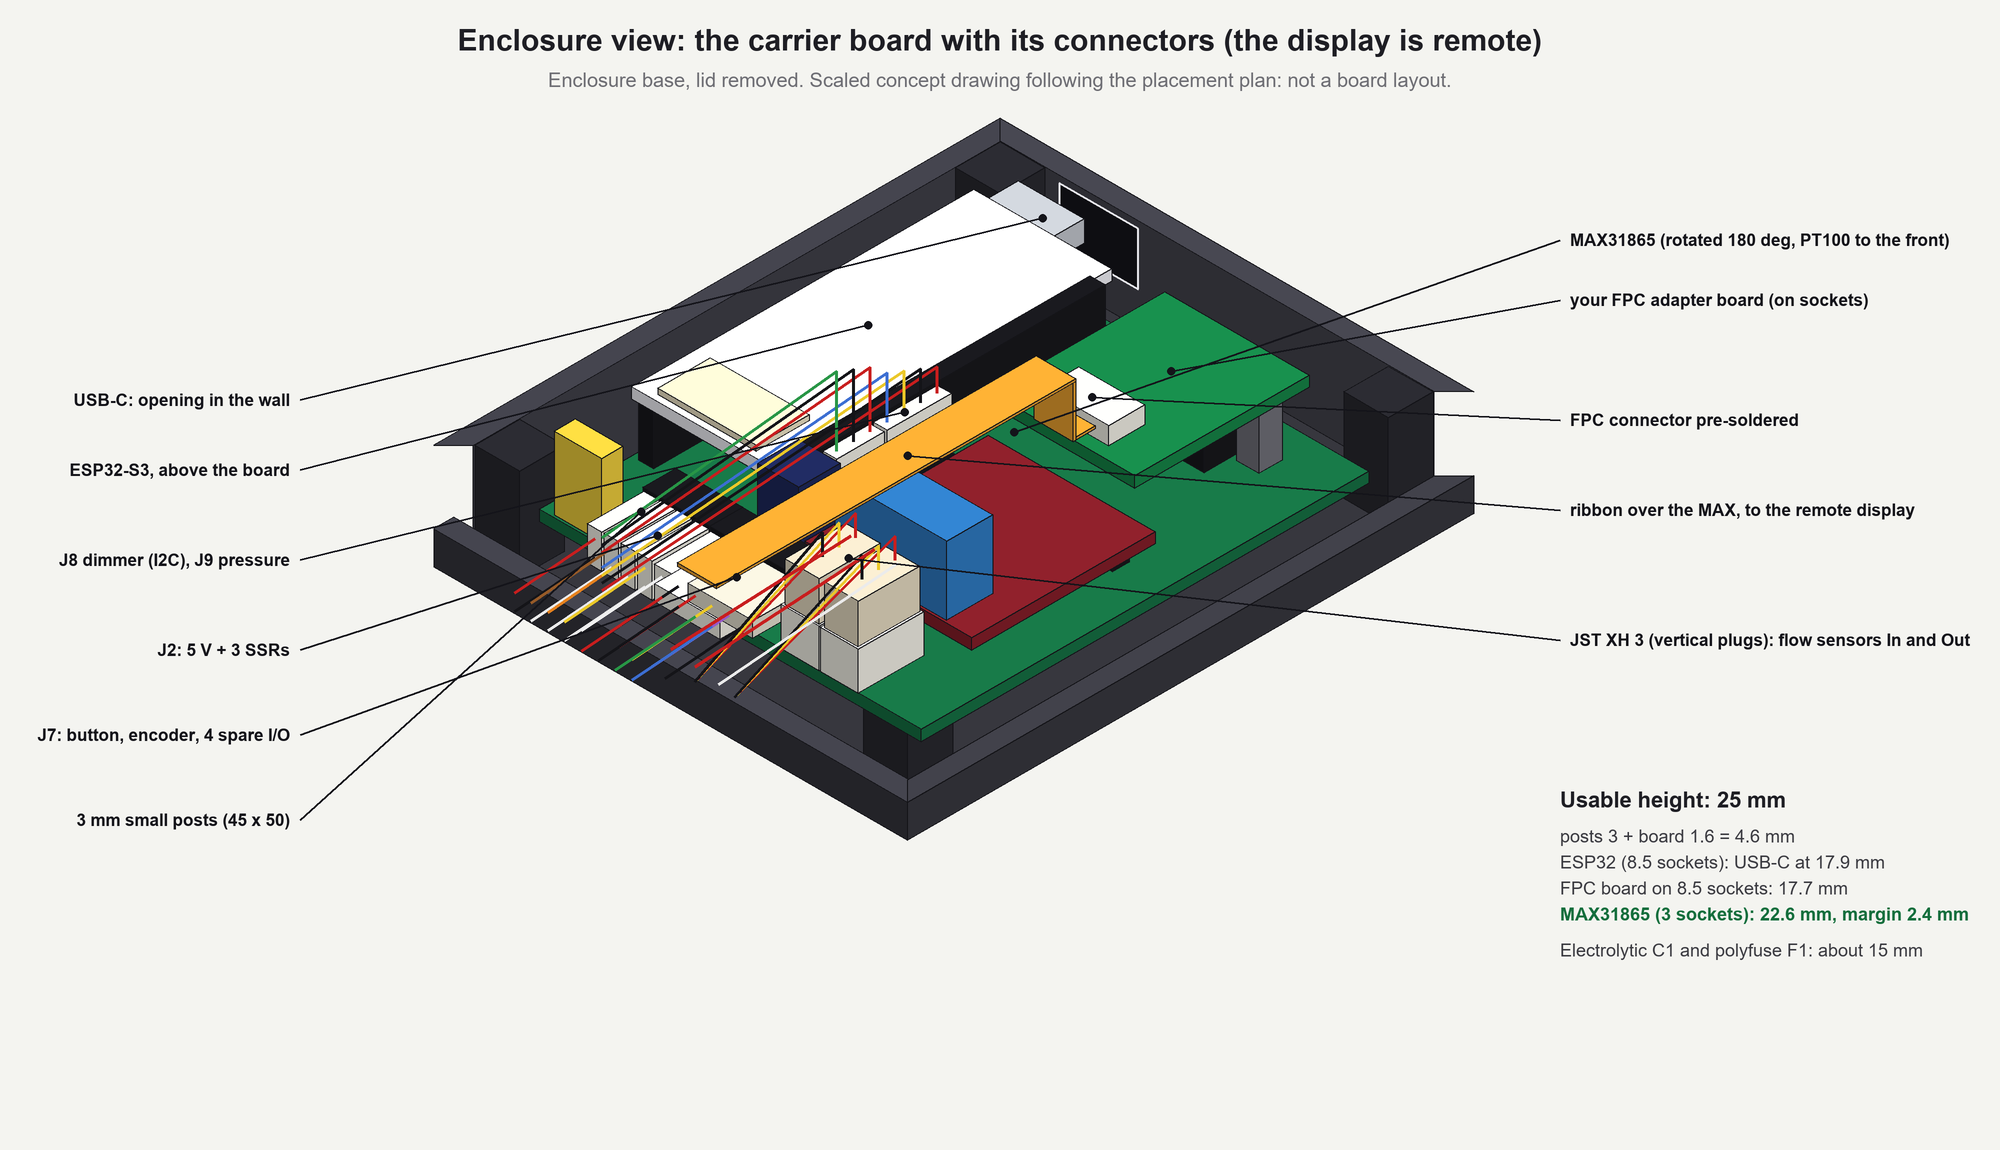
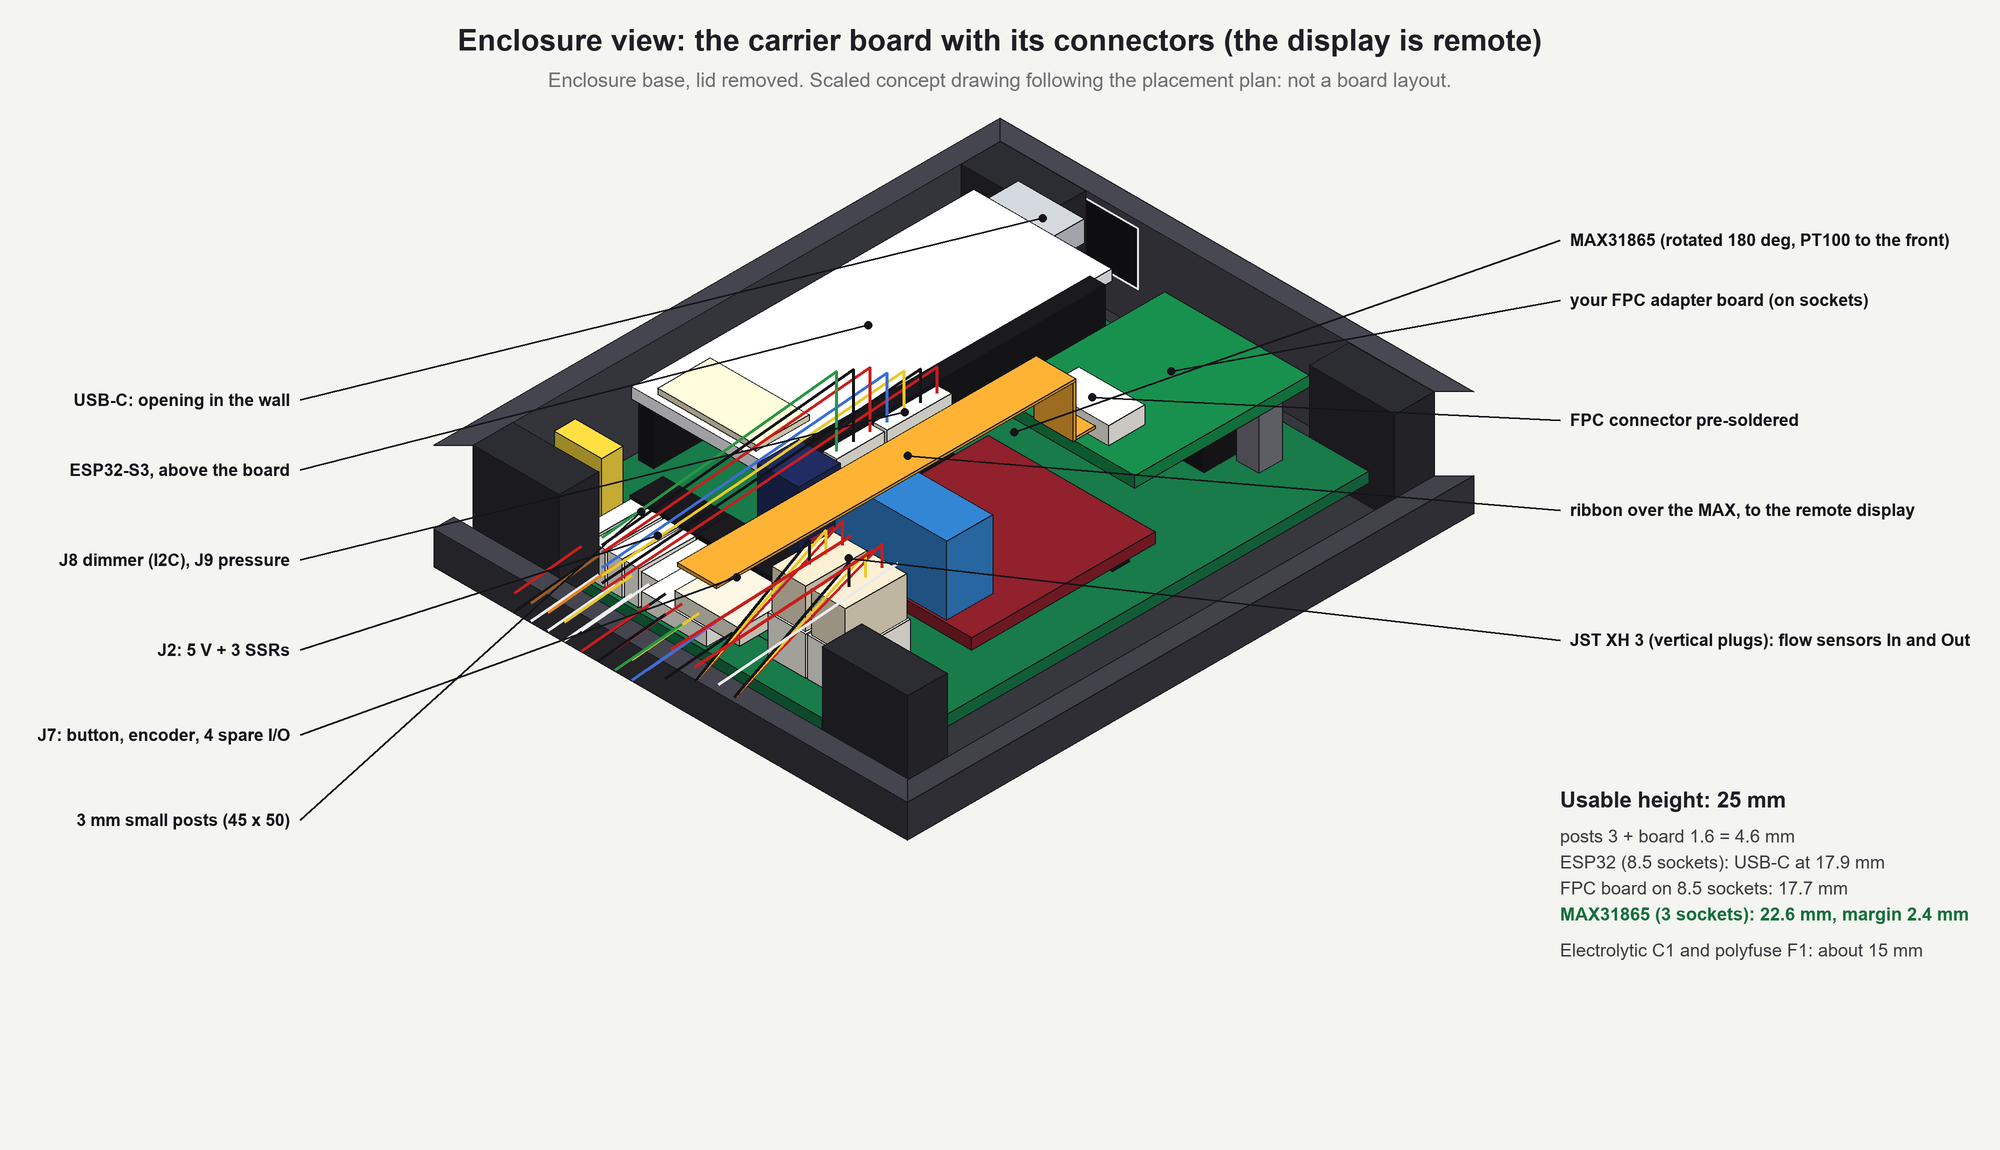
Big posts drawn as 13 x 6 corner blocks (plus-shaped usable area); PCB extended with a 40 x 6 tab on the cable side; connectors moved 2 mm forward

Changed region(s): [[0.248, 0.3957, 0.496, 0.6696], [0.651, 0.3652, 0.682, 0.3957], [0.527, 0.1522, 0.558, 0.1826]]

diff --git a/tools/carrier_plan.py b/tools/carrier_plan.py
@@ -42,28 +42,25 @@ rect(d, bx0, by0, bx1, by1, fill=(74, 74, 82, 255))
 # the opening for the USB-C cable in the back wall (y = top)
 rect(d, X(5.5), by0 - 3 * K, X(18.5), by0, fill=(20, 20, 24, 255), outline=(230, 230, 235, 255), width=2)
 text(d, X(12), by0 - 1.5 * K, "USB-C opening", 12, (230, 230, 235), True)
-# the four big posts (lid screws), diameter 8, at the corners of the interior
-for (cx, cy) in [(bx0 + 3.6 * K, by0 + 3.6 * K), (bx1 - 3.6 * K, by0 + 3.6 * K), (bx0 + 3.6 * K, by1 - 3.6 * K), (bx1 - 3.6 * K, by1 - 3.6 * K)]:
-    circ(d, cx, cy, 4.0 * K, fill=(30, 30, 34, 255), outline=(120, 120, 128, 255), width=3)
-    circ(d, cx, cy, 1.1 * K, fill=(70, 70, 78, 255))
-# the free area 58 x 68 between the posts, and the optional central extension (40 wide, up to 80 long in total)
-fx0, fy0 = X(0), Y(0)
-for (xa, ya, xb, yb) in [(fx0, fy0, fx0 + 58 * K, fy0), (fx0, fy0 + 68 * K, fx0 + 58 * K, fy0 + 68 * K), (fx0, fy0, fx0, fy0 + 68 * K), (fx0 + 58 * K, fy0, fx0 + 58 * K, fy0 + 68 * K)]:
-    line(d, [(xa, ya), (xb, yb)], (200, 200, 205), 1.5)
-for (ya, yb, lab) in [(-6.0, 0.0, "back"), (68.0, 74.0, "front")]:
-    for t in range(0, 40, 4):
-        line(d, [(X(9 + t), Y(ya)), (X(9 + t + 2), Y(ya))], (150, 200, 150), 1.5)
-        line(d, [(X(9 + t), Y(yb)), (X(9 + t + 2), Y(yb))], (150, 200, 150), 1.5)
-    line(d, [(X(9), Y(ya)), (X(9), Y(yb))], (150, 200, 150), 1.5)
-    line(d, [(X(49), Y(ya)), (X(49), Y(yb))], (150, 200, 150), 1.5)
-text(d, X(29), Y(-3.0), "optional extension: 40 wide, 80 mm total length", 10, (150, 220, 150), True)
-text(d, X(29), Y(71.0), "optional extension: 40 wide, 80 mm total length", 10, (150, 220, 150), True)
+# the big posts (lid screws): they leave a plus-shaped usable area (58 x 68 across, plus 40 x 80 along the middle),
+# so each corner is blocked over 13 x 6 mm
+for (xa, xb, ya, yb) in [(-4, 9, -6, 0), (49, 62, -6, 0), (-4, 9, 68, 74), (49, 62, 68, 74)]:
+    rrect(d, X(xa), Y(ya), X(xb), Y(yb), 10, fill=(30, 30, 34, 255), outline=(120, 120, 128, 255), width=3)
+    circ(d, (X(xa) + X(xb)) / 2, (Y(ya) + Y(yb)) / 2, 1.6 * K, fill=(70, 70, 78, 255))
+# plus-shaped free area: 58 x 68 plus the central 40 x 80
+cross = [(0, 0), (9, 0), (9, -6), (49, -6), (49, 0), (58, 0), (58, 68), (49, 68), (49, 74), (9, 74), (9, 68), (0, 68)]
+line(d, [(X(a), Y(b)) for a, b in cross + [cross[0]]], (150, 200, 150), 2)
+text(d, X(29), Y(-3.0), "optional back extension (not used)", 10, (150, 220, 150), True)
 
 # ---------------------------------------------------------------- the board 58 x 68
 PW, PL = 58.0, 68.0
 rrect(d, X(0) + 6, Y(0) + 8, X(PW) + 6, Y(PL) + 8, 12, fill=(0, 0, 0, 90))          # shadow
 rrect(d, X(0), Y(0), X(PW), Y(PL), 2.5 * K / 2.5, fill=MASK + (255,), outline=(8, 60, 36, 255), width=3)
 rect(d, X(0.8), Y(0.8), X(PW - 0.8), Y(PL - 0.8), outline=MASK2 + (255,), width=1)
+# front tab of the board (40 x 6) on the cable side, in the central extension
+rect(d, X(9) + 6, Y(PL) + 4, X(49) + 6, Y(74) + 8, fill=(0, 0, 0, 90))
+rect(d, X(9), Y(PL) - 5, X(49), Y(74), fill=MASK + (255,))
+line(d, [(X(9), Y(PL)), (X(9), Y(74)), (X(49), Y(74)), (X(49), Y(PL))], (8, 60, 36, 255), 3)
 
 def hole(cx, cy, dia, ring):
     circ(d, X(cx), Y(cy), ring / 2 * K, fill=PAD + (255,), outline=(120, 120, 126, 255), width=1)
@@ -166,25 +163,25 @@ for i, name in enumerate(["C3", "C4"]):
 # J2: 2 x 4 right-angle header, SSR + power (housing keep-out x 11.7 .. 21.9)
 for r_ in range(2):
     for c_ in range(4):
-        tpad(12.2 + c_ * 2.54, 59.0 + r_ * 2.54, square=(r_ == 0 and c_ == 0), ring=1.7, drill=1.0)
-rect(d, X(12.2) - 1.4 * K, Y(59.0) - 1.4 * K, X(12.2 + 3 * 2.54) + 1.4 * K, Y(61.54) + 1.4 * K, outline=SILK + (255,), width=2)
-silk(15.4, 56.4, "J2  SSRs + 5 V", 9)
+        tpad(12.2 + c_ * 2.54, 61.0 + r_ * 2.54, square=(r_ == 0 and c_ == 0), ring=1.7, drill=1.0)
+rect(d, X(12.2) - 1.4 * K, Y(61.0) - 1.4 * K, X(12.2 + 3 * 2.54) + 1.4 * K, Y(63.54) + 1.4 * K, outline=SILK + (255,), width=2)
+silk(15.4, 58.4, "J2  SSRs + 5 V", 9)
 for c_, lab in enumerate(["+5V", "P+", "B+", "V+"]):
-    text(d, X(12.2 + c_ * 2.54), Y(59.0) - 1.9 * K, lab, 8, SILK, True)
+    text(d, X(12.2 + c_ * 2.54), Y(61.0) - 1.9 * K, lab, 8, SILK, True)
 for c_, lab in enumerate(["GND", "P−", "B−", "V−"]):
-    text(d, X(12.2 + c_ * 2.54), Y(61.54) + 1.9 * K, lab, 8, SILK, True)
+    text(d, X(12.2 + c_ * 2.54), Y(63.54) + 1.9 * K, lab, 8, SILK, True)
 # J7: 2 x 6 right-angle header (two stacked rows of housings): button, encoder, and 4 spare pins (+5 V, IN, OUT, GND)
 # row A (top): BT, GND | +5 V, IN38, OUT39, GND      row B (bottom): +5 V, GND, A, B
 for c_ in range(6):
-    tpad(22.4 + c_ * 2.54, 59.0, square=(c_ == 0), ring=1.7, drill=1.0)
+    tpad(22.4 + c_ * 2.54, 61.0, square=(c_ == 0), ring=1.7, drill=1.0)
 for c_ in range(4):
-    tpad(22.4 + c_ * 2.54, 61.54, ring=1.7, drill=1.0)
-rect(d, X(22.4) - 1.4 * K, Y(59.0) - 1.4 * K, X(22.4 + 5 * 2.54) + 1.4 * K, Y(61.54) + 1.4 * K, outline=SILK + (255,), width=2)
-silk(31.0, 56.4, "J7  button / encoder / spare I/O", 9)
+    tpad(22.4 + c_ * 2.54, 63.54, ring=1.7, drill=1.0)
+rect(d, X(22.4) - 1.4 * K, Y(61.0) - 1.4 * K, X(22.4 + 5 * 2.54) + 1.4 * K, Y(63.54) + 1.4 * K, outline=SILK + (255,), width=2)
+silk(31.0, 58.4, "J7  button / encoder / spare I/O", 9)
 for c_, lab in enumerate(["BT", "GND", "5V", "IN", "OUT", "GND"]):
-    text(d, X(22.4 + c_ * 2.54), Y(59.0) - 1.9 * K, lab, 7, SILK, True)
+    text(d, X(22.4 + c_ * 2.54), Y(61.0) - 1.9 * K, lab, 7, SILK, True)
 for c_, lab in enumerate(["5V", "GND", "A", "B"]):
-    text(d, X(22.4 + c_ * 2.54), Y(61.54) + 1.9 * K, lab, 7, SILK, True)
+    text(d, X(22.4 + c_ * 2.54), Y(63.54) + 1.9 * K, lab, 7, SILK, True)
 # J8: 1 x 4 vertical header, dimmer (UART / I2C) in the corridor between ESP32 and FPC board; J9: 1 x 3, pressure sensor
 for i, lab in enumerate(["3V3", "GND", "SDA", "SCL"]):
     tpad(25.5, 33.0 + i * 2.54, square=(i == 0), ring=1.7, drill=1.0)
@@ -208,9 +205,9 @@ tpad(24.5, 50.4, ring=1.6, drill=0.8); tpad(27.0, 50.4, ring=1.6, drill=0.8); si
 # JST XH x2: vertical headers, rotated (pins along y), the plugs come out upwards: no keep-out towards the front
 for k, (x0, name) in enumerate([(39.6, "J3 flow In"), (45.6, "J4 flow Out")]):
     for i in range(3):
-        tpad(x0, 59.5 + i * 2.5, square=(i == 0), ring=1.8, drill=1.0)
-    rect(d, X(x0) - 2.9 * K, Y(59.5) - 2.1 * K, X(x0) + 2.9 * K, Y(64.5) + 2.1 * K, outline=SILK + (255,), width=2)
-    text(d, X(x0), Y(64.5) + 3.4 * K, name, 8, SILK, True)
+        tpad(x0, 61.5 + i * 2.5, square=(i == 0), ring=1.8, drill=1.0)
+    rect(d, X(x0) - 2.9 * K, Y(61.5) - 2.1 * K, X(x0) + 2.9 * K, Y(66.5) + 2.1 * K, outline=SILK + (255,), width=2)
+    text(d, X(x0), Y(66.5) + 3.4 * K, name, 8, SILK, True)
 
 # silkscreen title
 silk(53.0, 66.6, "rev A", 9)
@@ -246,7 +243,7 @@ def dim_v(x, y0, y1, label):
     for yy in (y0, y1):
         line(d, [(X(x) - 8, Y(yy)), (X(x) + 8, Y(yy))], (60, 60, 66), 2)
     d.text((px(X(x) - 14), px(Y((y0 + y1) / 2))), label, font=F(13, True), fill=(50, 50, 56), anchor='rm')
-dim_h(0, 58, 70.6, "58 mm")
+dim_h(0, 58, 78.2, "58 mm (tab 40 x 6 at the front)")
 dim_v(-7.2, 0, 68, "68 mm")
 
 # ---------------------------------------------------------------- legend, to the right
@@ -282,7 +279,7 @@ comp = [
     "C1  470 µF  ·  C2  100 nF",
 ]
 for i, t in enumerate(comp):
-    text(d, lx, 450 + i * 30, t, 15, INK, False, 'lm')
+    text(d, lx, 440 + i * 27, t, 15, INK, False, 'lm')
 
 text(d, lx, 810, "Heights (enclosure floor = 0)", 22, INK, True, 'lm')
 hs = [
@@ -300,7 +297,7 @@ text(d, lx, 1060, "Points to check on your board:", 18, (190, 40, 40), True, 'lm
 chk = [
     "the FPC ribbon goes over the MAX31865 (about 23.5 mm, 1 mm under the 25 mm limit);",
     "PT100 wires leave at the front above J7 / J3 / J4, at about 14 mm;",
-    "Dupont housings need about 9 mm in front of J2 / J7 (cable slot in the front wall);",
+    "Dupont housings end at the front wall (the board has a 40 x 6 tab there); cable slot in the wall;",
     "M2 holes and pin-1 orientation of the FPC board; pin order of J5, J6 and J7.",
 ]
 for i, t in enumerate(chk):

diff --git a/tools/box_iso3.py b/tools/box_iso3.py
@@ -64,9 +64,9 @@ poly([(ux0, WALL, 7), (ux0 + 12, WALL, 7), (ux0 + 12, WALL, 15), (ux0, WALL, 15)
 # top of the back walls
 poly([(0, 0, BASE_H), (BX, 0, BASE_H), (BX - WALL, WALL, BASE_H), (WALL, WALL, BASE_H)], shade(PLASTIC, 1.25), (20, 20, 24))
 poly([(0, 0, BASE_H), (0, BY, BASE_H), (WALL, BY - WALL, BASE_H), (WALL, WALL, BASE_H)], shade(PLASTIC, 1.2), (20, 20, 24))
-# the four big posts at the corners (lid screws)
-for (px, py) in [(WALL + 3.5, WALL + 3.5), (BX - WALL - 3.5, WALL + 3.5), (WALL + 3.5, BY - WALL - 3.5), (BX - WALL - 3.5, BY - WALL - 3.5)]:
-    cuboid(px - 3.4, py - 3.4, FLOOR, 6.8, 6.8, BASE_H - FLOOR, (40, 40, 46))
+# the big posts (plus-shaped usable area: each corner blocked over 13 x 6 mm); the back ones here, the front ones after the board
+for (px, py) in [(WALL, WALL), (BX - WALL - 13, WALL)]:
+    cuboid(px, py, FLOOR, 13, 6, BASE_H - FLOOR, (40, 40, 46))
 
 # ---------------------------------------------------------------- the carrier and what it holds
 CX0, CY0 = WALL + 4.0, WALL + 6.0     # origin of the carrier (58 x 68)
@@ -83,6 +83,7 @@ sy0 = CY0 + (68 - 50) / 2
 for (ax, ay) in [(sx0, sy0), (sx0 + 45, sy0), (sx0, sy0 + 50), (sx0 + 45, sy0 + 50)]:
     cuboid(ax - 2.4, ay - 2.4, FLOOR, 4.8, 4.8, 3.0, (36, 36, 42))
 cuboid(CX0, CY0, PCB_Z, 58, 68, PCBT, (22, 110, 66))
+cuboid(CX0 + 9, CY0 + 68, PCB_Z, 40, 6, PCBT, (22, 110, 66))          # front tab (cable side)
 
 GOLD = (214, 178, 70)
 BLACK = (24, 24, 28)
@@ -116,14 +117,14 @@ J9X, J9Y = CX0 + 25.5 - 1.27, CY0 + 43.2 - 1.27
 add(J8X, J8Y, top, 2.54, 10.16, 2.5, BLACK); add(J8X + 0.2, J8Y + 0.2, top + 2.5, 2.14, 9.76, 8.0, WHITE)
 add(J9X, J9Y, top, 2.54, 7.62, 2.5, BLACK); add(J9X + 0.2, J9Y + 0.2, top + 2.5, 2.14, 7.22, 8.0, WHITE)
 # J2 (2 x 4 right-angle, rows stacked vertically) and four 2-pin housings plugged in from the front
-add(CX0 + 12.2 - 1.27, CY0 + 58.2, top, 10.16, 5.0, 5.9, BLACK)
+add(CX0 + 12.2 - 1.27, CY0 + 60.2, top, 10.16, 5.0, 5.9, BLACK)
 for k in range(4):
-    add(CX0 + 12.2 - 1.27 + k * 2.54 + 0.15, CY0 + 63.2, top + 0.4, 2.24, 8.6, 5.1, WHITE)
+    add(CX0 + 12.2 - 1.27 + k * 2.54 + 0.15, CY0 + 65.2, top + 0.4, 2.24, 8.6, 5.1, WHITE)
 # J7 (2 x 5 right-angle): lower row = 4-pin encoder housing, upper row = 2-pin button + 3-pin spare housings
-add(CX0 + 22.4 - 1.27, CY0 + 58.2, top, 15.24, 5.0, 5.9, BLACK)
-add(CX0 + 22.4 - 1.27 + 0.15, CY0 + 63.2, top + 0.4, 10.0, 8.6, 2.3, WHITE)
-add(CX0 + 22.4 - 1.27 + 0.15, CY0 + 63.2, top + 3.0, 4.9, 8.6, 2.3, WHITE)
-add(CX0 + 22.4 - 1.27 + 5.23, CY0 + 63.2, top + 3.0, 9.9, 8.6, 2.3, (225, 222, 205))
+add(CX0 + 22.4 - 1.27, CY0 + 60.2, top, 15.24, 5.0, 5.9, BLACK)
+add(CX0 + 22.4 - 1.27 + 0.15, CY0 + 65.2, top + 0.4, 10.0, 8.6, 2.3, WHITE)
+add(CX0 + 22.4 - 1.27 + 0.15, CY0 + 65.2, top + 3.0, 4.9, 8.6, 2.3, WHITE)
+add(CX0 + 22.4 - 1.27 + 5.23, CY0 + 65.2, top + 3.0, 9.9, 8.6, 2.3, (225, 222, 205))
 # polyfuse, standing diode, electrolytic, 100 nF, and the two JST XH (vertical headers with their plugs)
 add(CX0 + 1.9, CY0 + 64.4, top, 7.2, 3.2, 11.0, (232, 200, 60))                # polyfuse
 add(CX0 + 1.2, CY0 + 61.2, top, 2.7, 2.7, 5.2, BLACK)                          # 1N5819 standing
@@ -131,12 +132,14 @@ add(CX0 + 22.55, CY0 + 51.15, top, 6.3, 6.3, 12.0, (30, 40, 90))               #
 add(CX0 + 24.0, CY0 + 49.9, top, 4.0, 1.6, 4.2, (200, 120, 40))                # 100 nF
 for k in range(2):
     xb = CX0 + 39.6 + k * 6.0 - 2.9
-    add(xb, CY0 + 58.1, top, 5.8, 9.9, 5.8, WHITE)                             # JST XH header
-    add(xb + 0.3, CY0 + 58.4, top + 5.8, 5.2, 9.3, 6.0, (225, 215, 190))      # its plug
+    add(xb, CY0 + 60.1, top, 5.8, 9.9, 5.8, WHITE)                             # JST XH header
+    add(xb + 0.3, CY0 + 60.4, top + 5.8, 5.2, 9.3, 6.0, (225, 215, 190))      # its plug
 
 items.sort(key=lambda t: t[0])
 for _, fn in items:
     fn()
+for (px, py) in [(WALL, BY - WALL - 6), (BX - WALL - 13, BY - WALL - 6)]:
+    cuboid(px, py, FLOOR, 13, 6, BASE_H - FLOOR, (40, 40, 46))
 
 # ---------------------------------------------------------------- the front walls of the base (cut low, to see inside)
 FW = 5.0
@@ -149,17 +152,17 @@ poly([(BX, 0, FW), (BX, BY, FW), (BX - WALL, BY - WALL, FW), (BX - WALL, WALL, F
 j2cols = [((200, 30, 30), (20, 20, 24)), ((150, 90, 40), (235, 235, 235)), ((230, 130, 30), (235, 235, 235)), ((235, 200, 40), (235, 235, 235))]
 for k, (c1, c2) in enumerate(j2cols):
     xk = CX0 + 12.2 + k * 2.54
-    d.line([P(xk, CY0 + 71.8, top + 4.1), P(xk, CY0 + 84, top + 3.0)], fill=c1, width=3 * SS)
-    d.line([P(xk, CY0 + 71.8, top + 1.6), P(xk, CY0 + 84, top + 0.6)], fill=c2, width=3 * SS)
+    d.line([P(xk, CY0 + 73.8, top + 4.1), P(xk, CY0 + 84, top + 3.0)], fill=c1, width=3 * SS)
+    d.line([P(xk, CY0 + 73.8, top + 1.6), P(xk, CY0 + 84, top + 0.6)], fill=c2, width=3 * SS)
 # J7 upper row: button (2) + spare (3); lower row: encoder (4)
 upper = [(240, 240, 240), (20, 20, 24), (200, 30, 30), (235, 200, 40), (150, 90, 200), (20, 20, 24)]
 lower = [(200, 30, 30), (20, 20, 24), (40, 150, 70), (60, 110, 210)]
 for k, col in enumerate(upper):
     xk = CX0 + 22.4 + k * 2.54
-    d.line([P(xk, CY0 + 71.8, top + 4.2), P(xk, CY0 + 84, top + 3.2)], fill=col, width=3 * SS)
+    d.line([P(xk, CY0 + 73.8, top + 4.2), P(xk, CY0 + 84, top + 3.2)], fill=col, width=3 * SS)
 for k, col in enumerate(lower):
     xk = CX0 + 22.4 + k * 2.54
-    d.line([P(xk, CY0 + 71.8, top + 1.5), P(xk, CY0 + 84, top + 0.5)], fill=col, width=3 * SS)
+    d.line([P(xk, CY0 + 73.8, top + 1.5), P(xk, CY0 + 84, top + 0.5)], fill=col, width=3 * SS)
 # J8 / J9: wires rise above the plugs then leave towards the front, above everything
 for k, col in enumerate([(200, 30, 30), (20, 20, 24), (235, 200, 40), (60, 110, 210)]):
     y = CY0 + 33.0 + k * 2.54
@@ -170,7 +173,7 @@ for k, col in enumerate([(200, 30, 30), (20, 20, 24), (40, 150, 70)]):
 # JST XH flow sensors: the cables come out of the top of the plugs and go forward
 for kx in range(2):
     for k, col in enumerate([(200, 30, 30), (235, 200, 40), (20, 20, 24)]):
-        yk = CY0 + 59.5 + k * 2.5
+        yk = CY0 + 61.5 + k * 2.5
         xk = CX0 + 39.6 + kx * 6.0
         d.line([P(xk, yk, top + 11.8), P(xk, yk, top + 15), P(xk, CY0 + 84, top + 5 + kx)], fill=col, width=3 * SS)
 # PT100 wires leave the terminal block towards the front, above J7 / XH

diff --git a/docs/carrier_spec.md b/docs/carrier_spec.md
@@ -3,7 +3,8 @@
 All **through-hole** parts (no SMD soldering). Related files: `images/carrier_plan.png` (to-scale placement), `images/box_iso3.png` (3D view), `images/carrier_schema.png` (connection schematic).
 
 ## Dimensions and mounting
-- Board: **58 x 68 mm**, two layers, ground plane. Free area in the enclosure: **58 x 68 mm** between the large posts (the board fills it exactly). In the middle of the enclosure the free length can reach **80 mm over a 40 mm width**, avoiding the posts: optional extension tabs of about 6 mm at the front and at the back (dashed in the placement plan), not used for now.
+- Usable area in the enclosure (interior 66 x 80 mm), from your measurements: **58 x 68 mm** between the big posts, and in the middle **80 mm long over a 40 mm width** avoiding the posts. Together they form a plus-shaped area, so each corner is blocked over **13 x 6 mm** (the posts are drawn as these corner blocks; if they are round, send me their diameter and centres).
+- Board: **58 x 68 mm main body, plus a 40 x 6 mm tab on the cable (front) side** (x from 9 to 49), so the board is 74 mm long at the tab; two layers, ground plane. The tab lets the Dupont housings of J2 / J7 and the JST XH plugs sit on the board up to the front wall; the back extension (also 40 x 6 mm) is not used.
 - 4 mounting holes on the **3 mm** small posts, **45 x 50 mm** spacing.
 - Usable depth **25 mm**: posts 3 + board 1.6 = 4.6 mm; ESP32 on 8.5 mm sockets (USB-C at 17.9 mm); FPC adapter board on 8.5 mm sockets (17.7 mm); MAX31865 on low 3 mm sockets (22.6 mm, 2.4 mm margin).
 - **Front connector row:** right-angle headers with their Dupont housings need about **9 mm in front of the pads** (keep-out, nothing else there); J2, J7 and the vertical JST XH J3 / J4 are side by side on the front edge. F1 and D1 sit in the front-left corner (in front of the mounting hole), C1 and C2 in the corridor between the ESP32 and the MAX31865. A cable slot is needed in the front wall (housings end about 6 mm from it).
@@ -114,7 +115,7 @@ VIN (3.3 V), 3Vo (unused), GND, CLK (GPIO 12), SDO (GPIO 13), SDI (GPIO 11), CS 
 | 1 | 470 µF 10 V radial capacitor; 4 x 100 nF; 2 x 1 nF | 1 € |
 | 4 | 3 mm standoffs (existing) + M2.5 screws | 0 |
 | | **Total parts** | **about 6 to 9 €** |
-| 5 | bare boards, 58 x 68 mm, 2 layers (shipping included) | 10 to 20 € |
+| 5 | bare boards, 58 x 68 mm + 40 x 6 mm tab, 2 layers (shipping included) | 10 to 20 € |
 
 ## Points to confirm before manufacturing
 1. Pin order, supply and backlight of your display ribbon (J5).

diff --git a/README.md b/README.md
@@ -20,7 +20,7 @@ Status: **working design, nothing has been manufactured.** Placement is to scale
 - `images/`: the three pictures above, all generated from the scripts in `tools/` (Python + Pillow; measurements are at the top of each file): `carrier_plan.py`, `box_iso3.py`, `carrier_schema.py`.
 
 ## Principles
-- 58 x 68 mm board in the 60 x 70 mm free area, on four 3 mm standoffs (45 x 50 mm spacing), 25 mm usable depth.
+- 58 x 68 mm board with a 40 x 6 mm tab on the cable side, in the plus-shaped free area of the enclosure (58 x 68 plus 40 x 80), on four 3 mm standoffs (45 x 50 mm spacing), 25 mm usable depth.
 - Through-hole parts only (no SMD soldering).
 - ESP32-S3 and MAX31865 module on sockets; FPC adapter board (remote display) on a 2 x 4 socket.
 - SSRs are kept, driven by 2N2222A transistors from the external 5 V supply.
